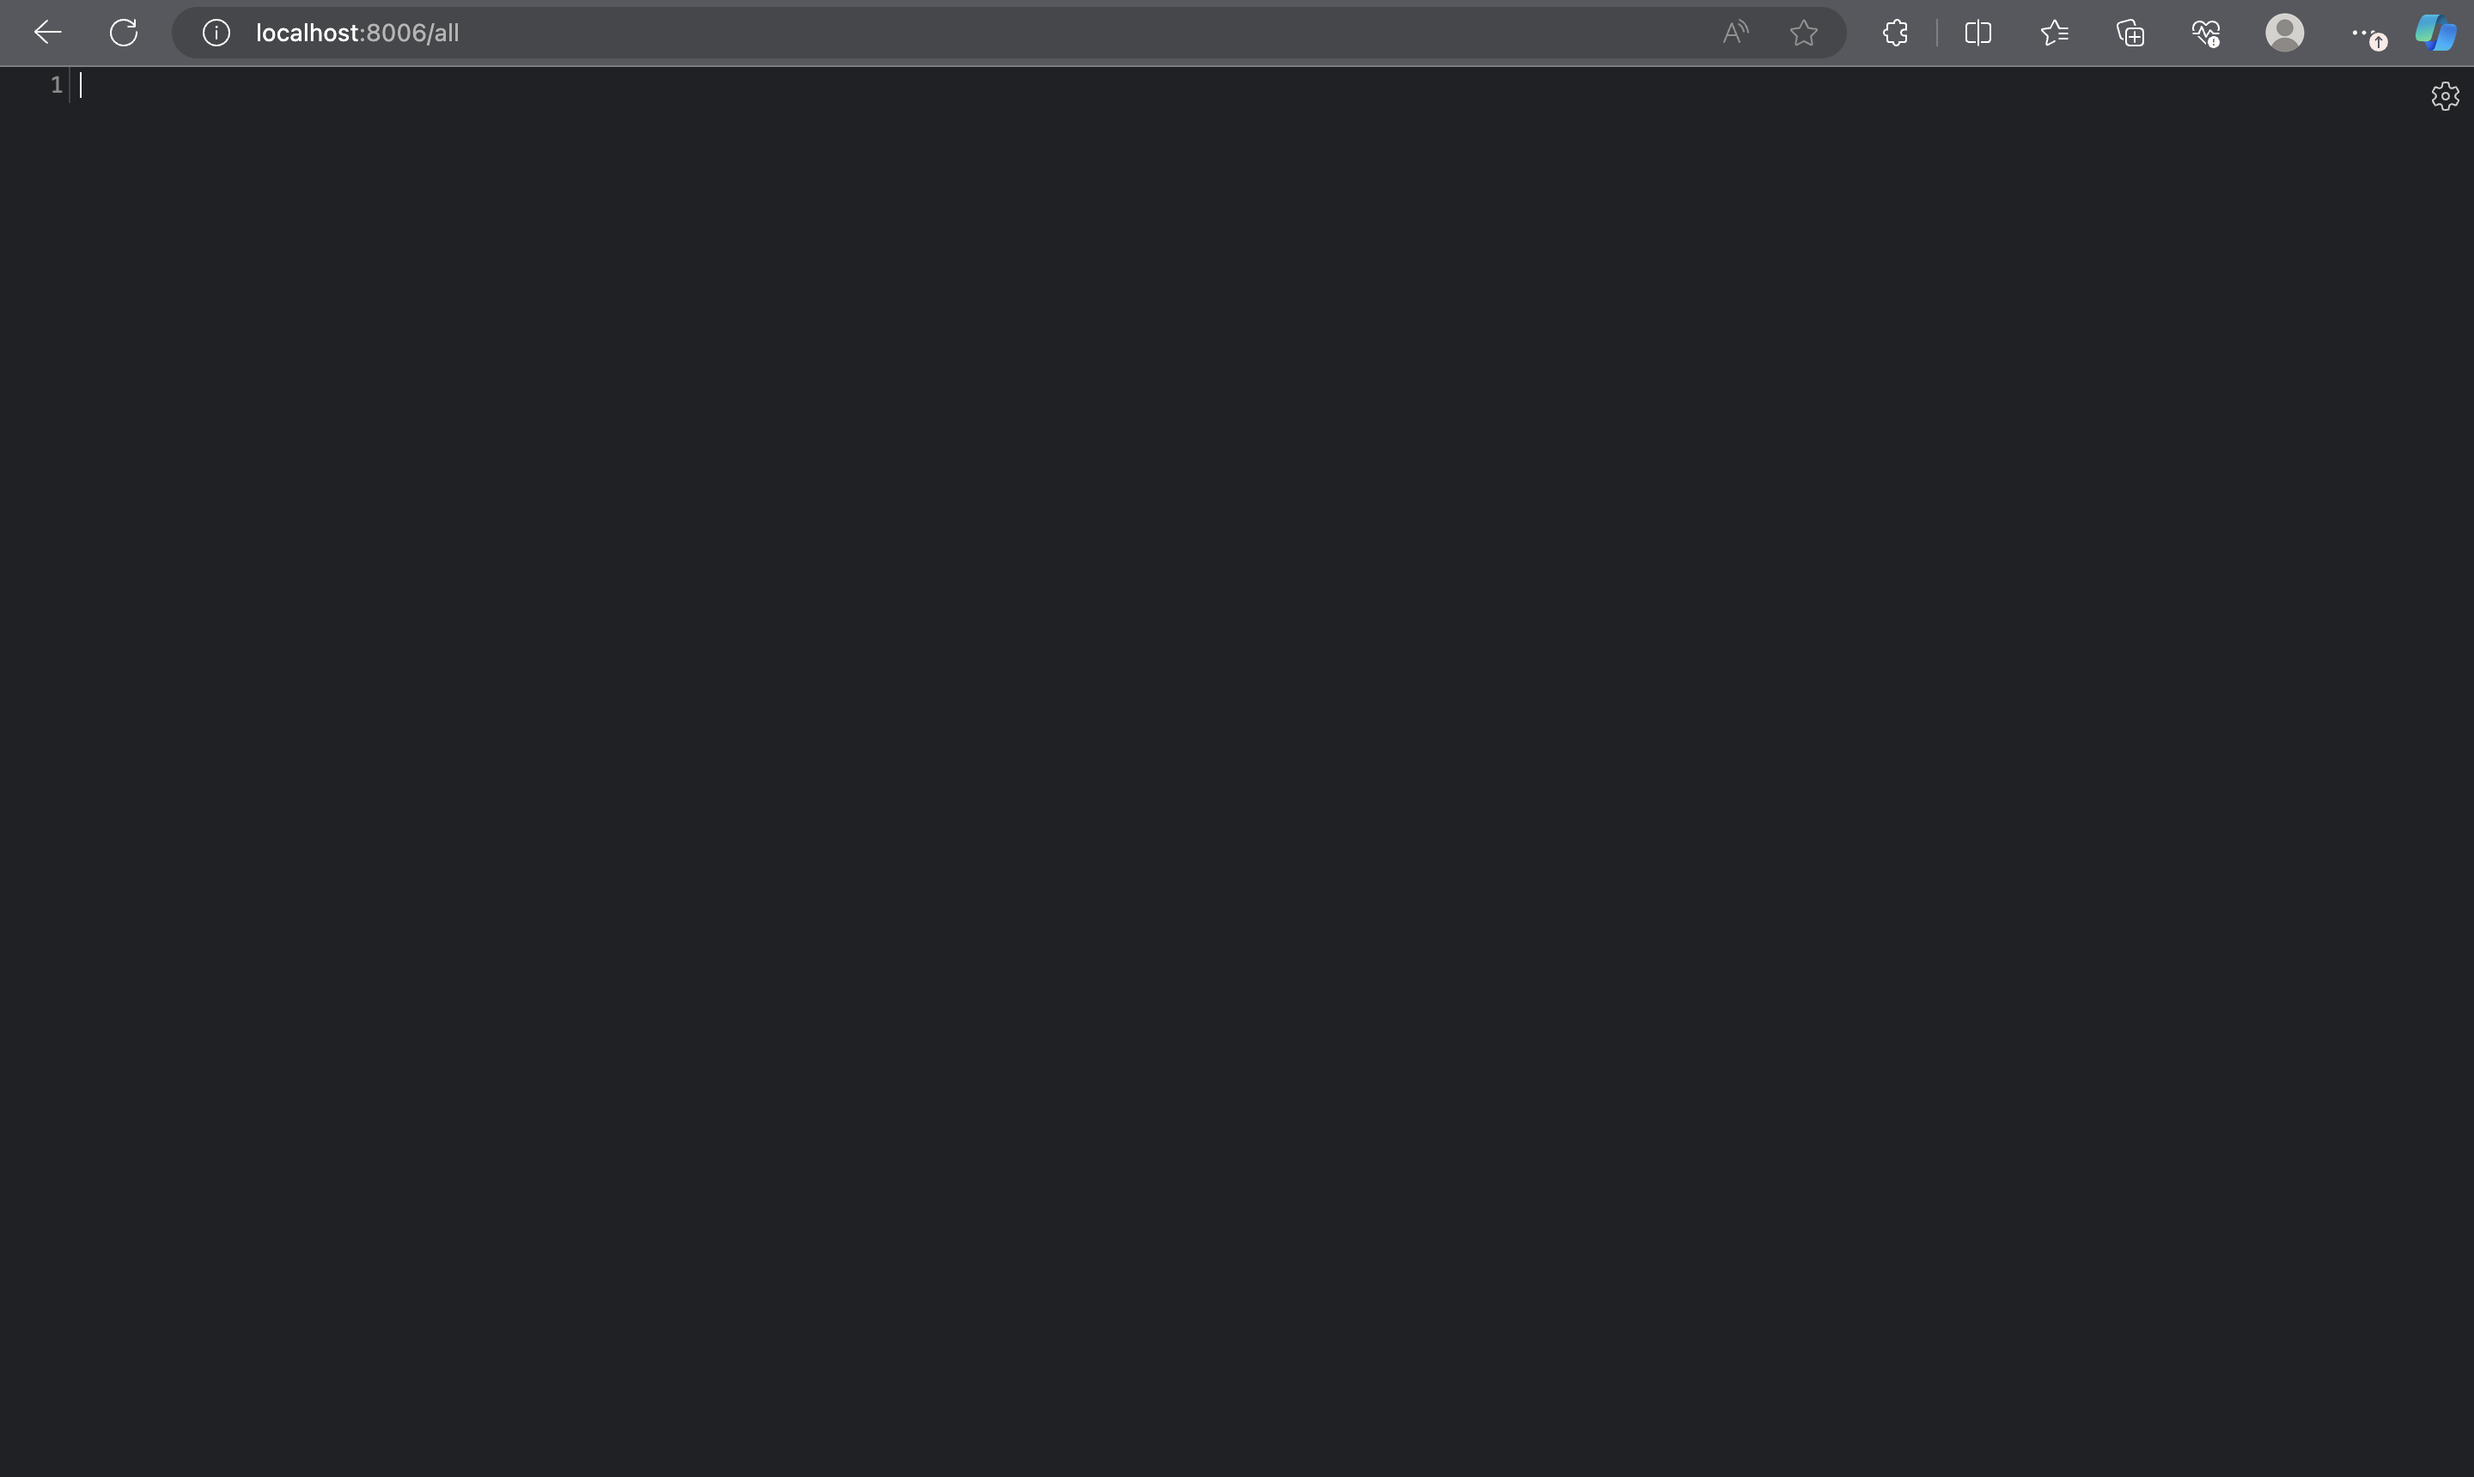
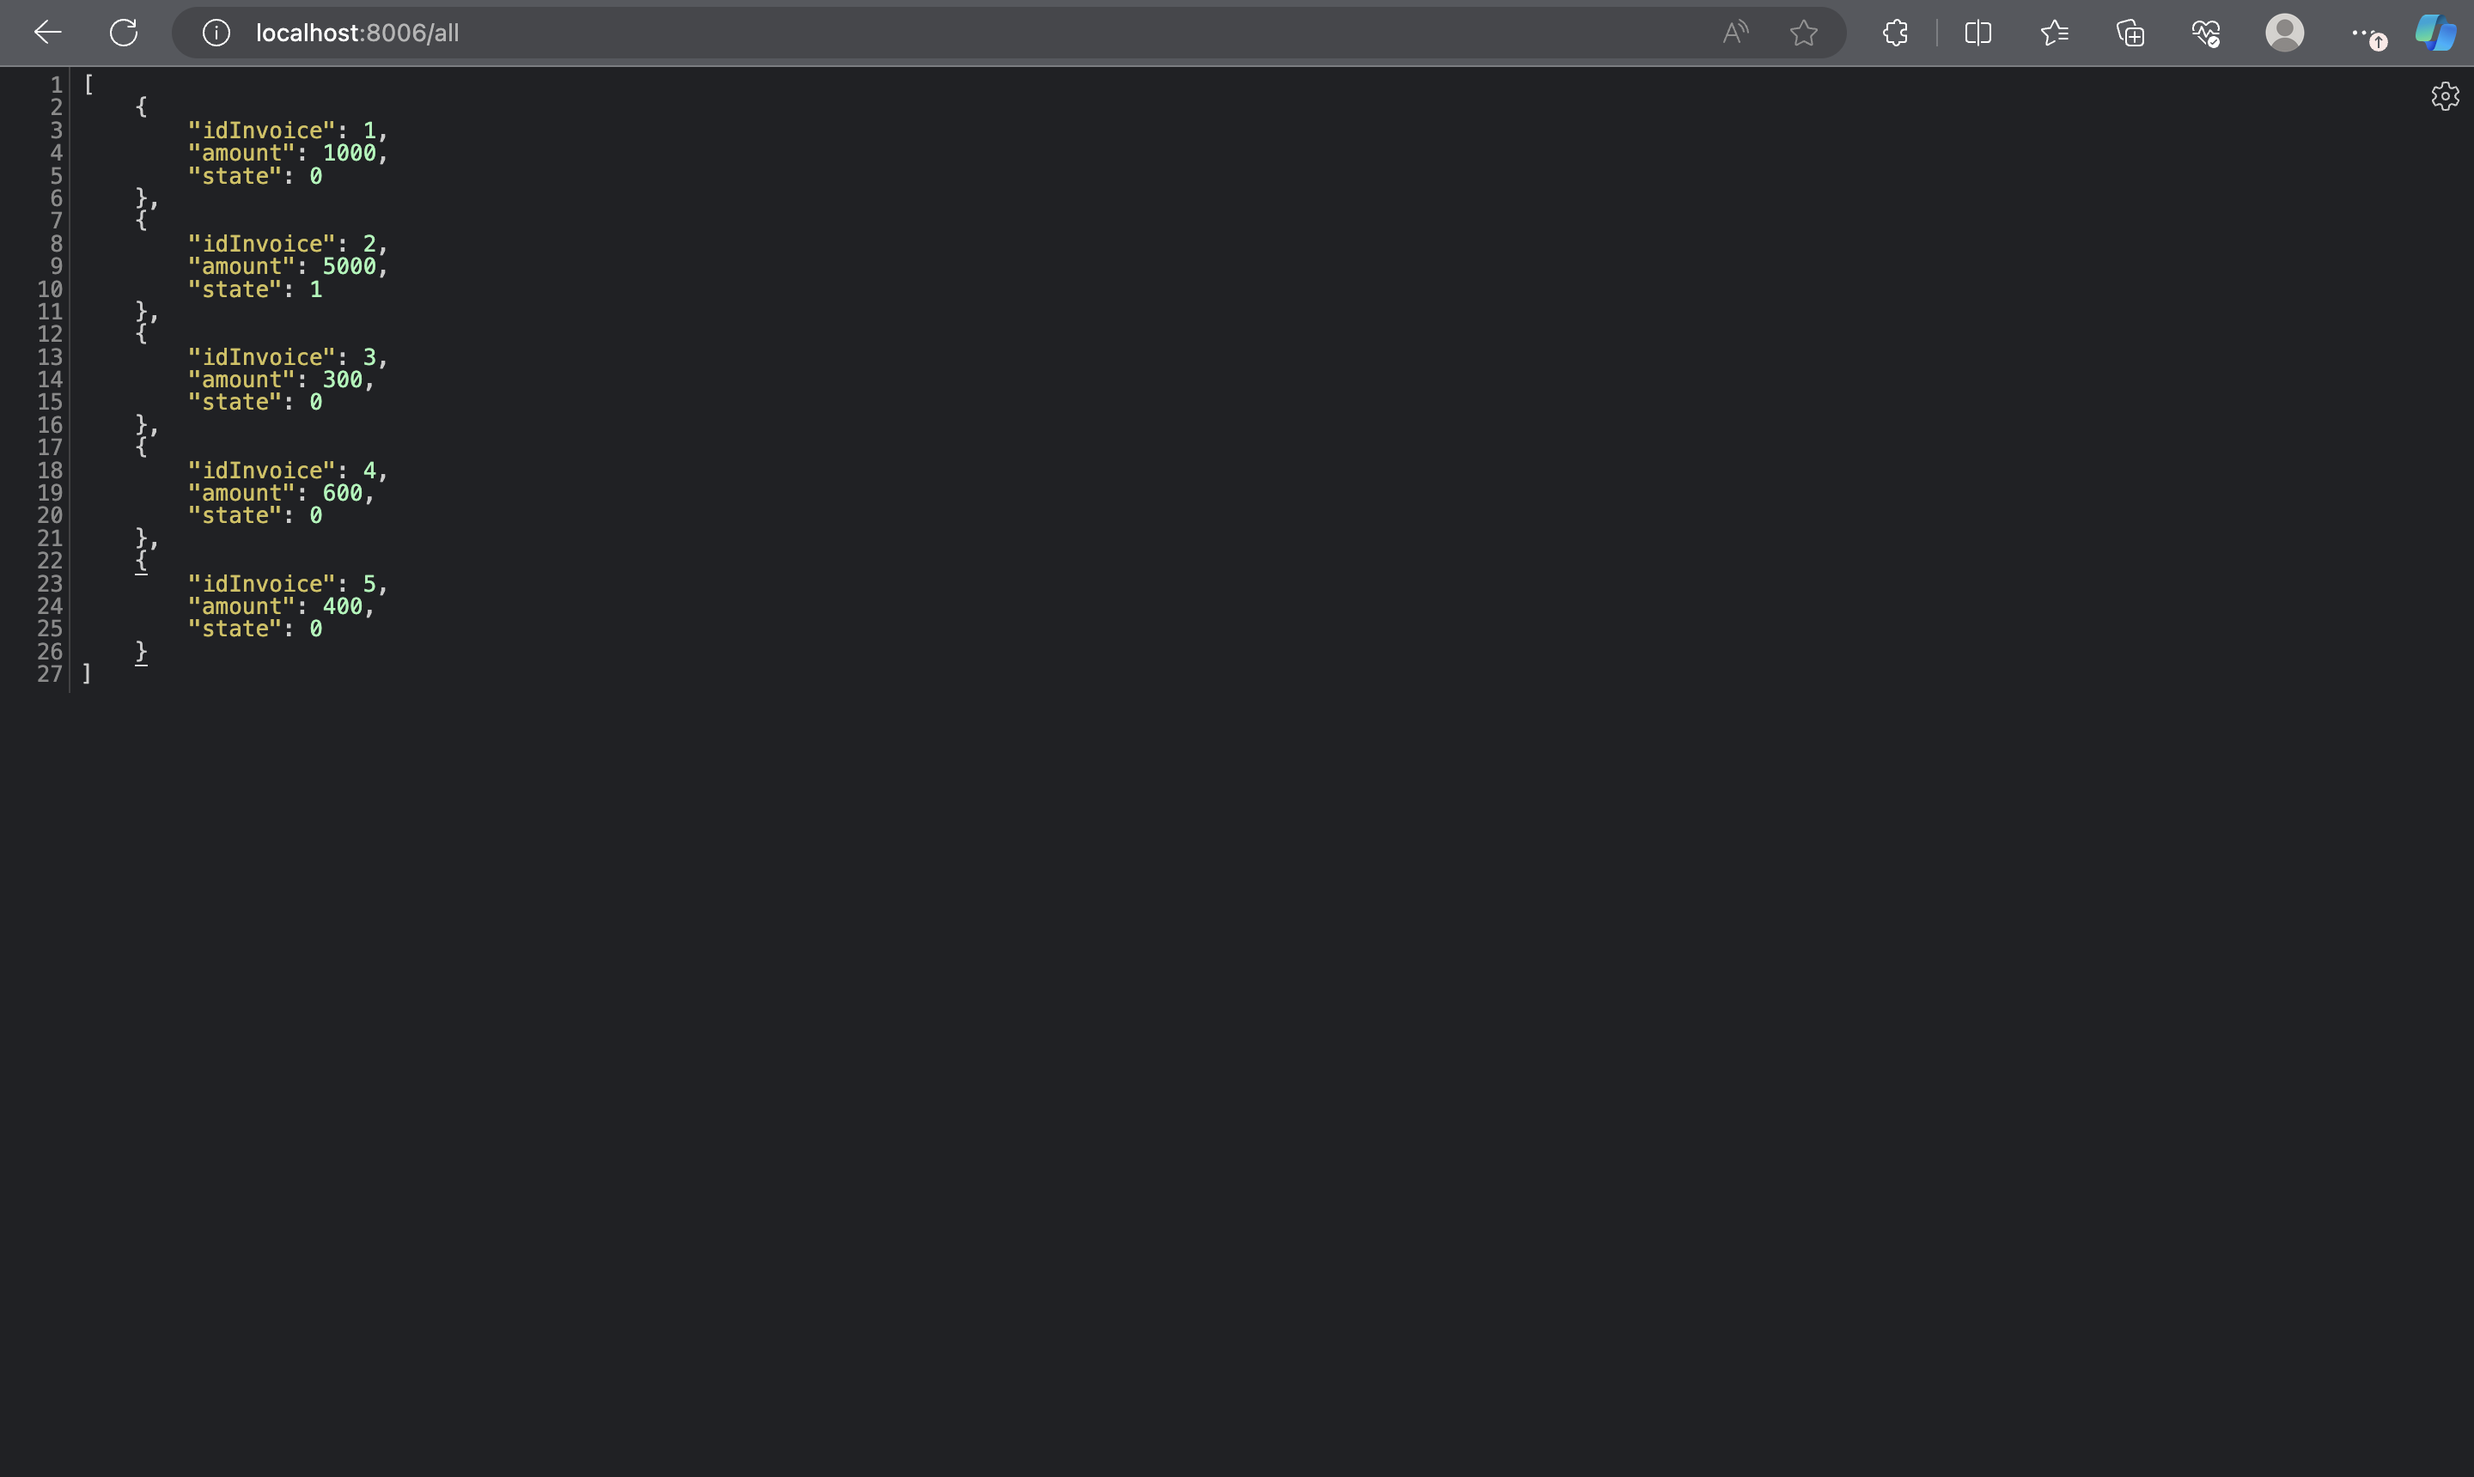
Adding data to Postgres

diff --git a/README.md b/README.md
@@ -51,6 +51,11 @@ The following are the steps executed to succesfully ran the microservice app-inv
   docker run -p 5432:5432 --name postgres --network distribuidos -e POSTGRES_PASSWORD=postgres -e POSTGRES_DB=db_invoice -d postgres
   ```
   ![postgres](./assets/postgres.png)
+  2. Run the database tables initialization for Postgres found in resources folder (disclaimer: you should have [psql](https://www.timescale.com/blog/how-to-install-psql-on-mac-ubuntu-debian-windows/) installed in your OS):
+  ```
+  psql -h localhost -d db_invoice -U postgres -f postgres.sql
+  psql -h localhost -d db_invoice -U postgres -f data.sql
+  ```
 
 
 ## 4. Run microservice app-invoice:
